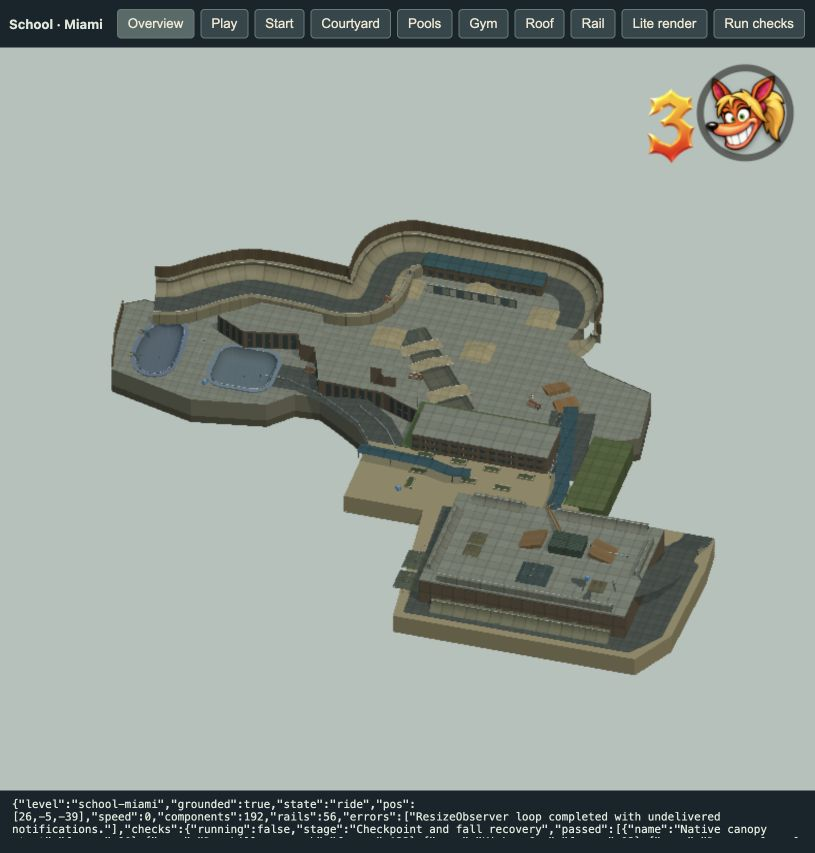
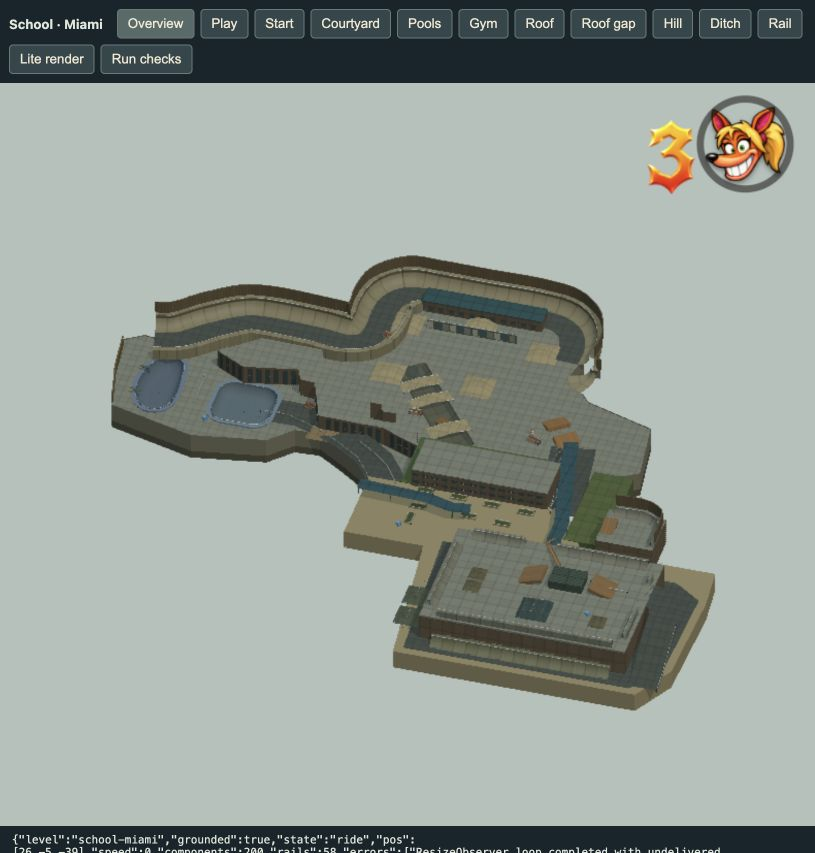
Restore School roof and footbridge transfers
Add the separate bonus roof, west-descent wedge and ditch launch. Correct the service-hill direction and east coping entry. Verify native jumps at two speeds, the braked roof turn, continuous campus circuit, and lite/full rendering. Keep all work local and preserve unrelated runtime edits.

Changed region(s): [[0.1227, 0.2438, 0.8896, 0.8535], [0.0, 0.0, 1.0, 0.2438], [0.0, 0.9144, 1.0, 1.0]]

diff --git a/src/levels/school-miami.ts b/src/levels/school-miami.ts
@@ -159,6 +159,13 @@ for (const [p,sign] of [[ditch.a,1],[ditch.b,-1]] as const) {
   const tx=(ditch.b[0]-ditch.a[0])/dl*sign,tz=(ditch.b[2]-ditch.a[2])/dl*sign;
   ribbon('Ditch end roll-out',Array.from({length:17},(_,i)=>[p[0]+tx*i/16*4,lowerY-ditch.depth*smooth(i/16),p[2]+tz*i/16*4] as Point),ditch.half*2,asphalt,4);
 }
+// The long space between the second and third bridges contains the
+// original launch wedge: approach along the bed and ollie over bridge 3.
+export const SCHOOL_DITCH_KICKER={p:pointAt(ditch.a,ditch.b,.64),run:4.2,rise:1.2,direction:[(ditch.b[0]-ditch.a[0])/dl,0,(ditch.b[2]-ditch.a[2])/dl] as Point};
+{
+  const k=SCHOOL_DITCH_KICKER,h=k.direction;
+  add({t:'ramp',nm:'Over a Footbridge · ditch launch wedge',p:[k.p[0],lowerY-ditch.depth,k.p[2]],len:k.run,rise:k.rise,w:2.8,yaw:Math.atan2(-h[0],-h[2])*180/Math.PI,tex:'wood',color:'#a28e6b',edgeGrinding:false,grp:4});
+}
 
 const yardOutline=mapped([[28,107],[53,100],[84,109],[163,83],[186,84],[269,108],[300,90],[320,46],[342,32],[485,57],[516,77],[513,110],[496,132],[512,164],[536,176],[575,195],[558,252],[502,266],[473,256],[447,278],[302,281],[273,263],[246,235],[225,216],[199,213],[168,227],[89,224],[9,189],[16,143]],lowerY);
 floor('Lower campus · cut-out pool and ditch foundation',yardOutline,lowerY,concrete,1,[kidneyHole,squareHole,ditchHole]).depthBias=2;
@@ -185,6 +192,11 @@ const westDescent=SCHOOL_WEST_DESCENT;
 ribbon('West descent · long planter road',westDescent,9,asphalt,2);
 rail('Long Ass Rail · outside planter lip',westDescent.map(p=>[p[0]-3.9,p[1]+.45,p[2]+1.2]),2,'#bead8c');
 rail('Hall Pass · inside planter transfer',[[1,.5,-6],[-3,.5,-12],[-8,-.3,-17],[-13,-2,-22]],2);
+export const SCHOOL_WEST_WEDGE={p:schoolMapPoint(233,214,-3.85),width:5.6,depth:1.1,rise:1.15,bank:2.1};
+{
+  const k=SCHOOL_WEST_WEDGE;
+  hip('Funbox to Rail · west-descent wedge',k.p[0],lowerY,k.p[2],k.width,k.depth,k.rise,k.bank,7,'#ad977a');
+}
 // Upper grass terraces stop short of the bank and the landing lanes.
 polygonBlock('Admin lawn',[[2,-25],[34,-25],[37,-7],[2,-7]],.15,-5,'#65835b',2);
 slab('East approach lawn',51,-10,10,27,.12,-5,'#6c8459',2);
@@ -249,10 +261,10 @@ quarter('Mini Gap · playground inner quarter',[miniAfter,...longPipe.slice(10)]
 const parkReturn=[[493,133],[494,146],[505,154]].map(([u,v])=>schoolMapPoint(u,v,lowerY));
 quarter('Park Gap return quarter',parkReturn,3,6,{w:3.1,deck:1.1,curve:'spline',color:'#b7af95'});
 // Physical fences are outside the transition decks, not in the riding line.
-function fenceAlong(points:Point[], offset:number, grp:number) {
+function fenceAlong(points:Point[], offset:number, grp:number, elevation=3) {
   const outside=points.map((p,i):Point=>{
     const a=points[Math.max(0,i-1)],b=points[Math.min(points.length-1,i+1)],l=Math.hypot(b[0]-a[0],b[2]-a[2])||1;
-    return[p[0]+(b[2]-a[2])/l*offset,p[1]+3,p[2]-(b[0]-a[0])/l*offset];
+    return[p[0]+(b[2]-a[2])/l*offset,p[1]+elevation,p[2]-(b[0]-a[0])/l*offset];
   });
   const p=outside[0];
   add({t:'wallpath',nm:'School perimeter fence',p,pts:outside.map(q=>[q[0]-p[0],q[2]-p[2],0,q[1]-p[1]]),w:.28,rise:3.2,curve:'spline',color:'#837d70',tex:'wood',containment:true,collisionHeight:6,grp});
@@ -358,14 +370,28 @@ quarter('Gym roof west quarter',[[26,roofY,45],[26,roofY,21]],1.8,9,{color:'#969
 quarter('Gym roof north left quarter',[[27,roofY,18],[40,roofY,18]],1.8,9,{color:'#969d96',deck:.7});
 quarter('Gym roof north right quarter',[[48,roofY,18],[71,roofY,18]],1.8,9,{color:'#969d96',deck:.7});
 quarter('Gym roof south quarter',[[71,roofY,46],[27,roofY,46]],1.8,9,{color:'#969d96',deck:.7});
-quarter('Gym roof east quarter',[[71,roofY,20],[71,roofY,34]],1.8,9,{color:'#969d96',deck:.7});
-// The right-hand service hill returns from ground to roof with eased ends.
-// Its broad turn accepts full-speed diagonal steering after controller
-// normalization (keyboard forward + left is 0.71, not a full 1.0 turn).
+quarter('Gym roof east upper quarter',[[71,roofY,20],[71,roofY,23]],1.8,9,{color:'#969d96',deck:.7});
+quarter('Gym roof east lower quarter',[[71,roofY,34],[71,roofY,45]],1.8,9,{color:'#969d96',deck:.7});
+// A distinct small roof sits across the north coping, east of the long
+// awning. Its south edge is open for Roof 2 Roof; the other two sides have
+// transitions and a fence. It is not a continuation of the access hill.
+export const SCHOOL_BONUS_ROOF={minX:55.8,maxX:70.25,minZ:-2.5,maxZ:9.9,y:roofY};
+{
+  const b=SCHOOL_BONUS_ROOF;
+  slab('Roof 2 Roof · separate bonus roof',(b.minX+b.maxX)/2,(b.minZ+b.maxZ)/2,b.maxX-b.minX,b.maxZ-b.minZ,b.y,0,brick,9);
+  floor('Bonus roof skating surface',[[b.minX,b.minZ],[b.maxX,b.minZ],[b.maxX,b.maxZ],[b.minX,b.maxZ]],b.y+.015,concrete,9,[],false);
+  const rim:Point[]=[[57.6,b.y,.2],[65.4,b.y,.2],[67.5,b.y,1.5],[67.8,b.y,4],[67.8,b.y,9.2]];
+  quarter('Bonus roof · north and east quarter',rim,1.8,9,{curve:'spline',color:'#969d96',deck:.65});
+  fenceAlong(rim,2.7,9,1.8);
+  add({t:'ramp',nm:'Bonus roof · small return wedge',p:[57.7,b.y,4.5],len:4.8,rise:1.4,w:3.4,yaw:0,tex:'wood',color:'#ad9579',edgeGrinding:false,grp:9});
+}
+// The east service hill climbs from the rear alley toward the front of the
+// gym. Its top turns left through the opening in the roof's east coping,
+// lining up the air-conditioner kicker. Brake for the turn as in free skate.
 export const SCHOOL_ROOF_ACCESS:Point[]=[];
-for(let i=0;i<=40;i++){const t=i/40;SCHOOL_ROOF_ACCESS.push([81,7*smooth(t),mix(6,22,t)]);}
-for(let i=1;i<=32;i++){const a=i/32*Math.PI/2;SCHOOL_ROOF_ACCESS.push([61+20*Math.cos(a),7,22+20*Math.sin(a)]);}
-SCHOOL_ROOF_ACCESS.push([58,7,42]);
+for(let i=0;i<=40;i++){const t=i/40;SCHOOL_ROOF_ACCESS.push([80,7*smooth(t),mix(53,34,t)]);}
+for(let i=1;i<=32;i++){const a=i/32*Math.PI/2;SCHOOL_ROOF_ACCESS.push([72+8*Math.cos(a),7,34-8*Math.sin(a)]);}
+SCHOOL_ROOF_ACCESS.push([68,7,26]);
 ribbon('Gym service hill · ground-to-roof return',SCHOOL_ROOF_ACCESS,7.6,asphalt,9);
 rail('Service hill outside rail',SCHOOL_ROOF_ACCESS.slice(0,40).filter((_,i)=>i%4===0).map(p=>[p[0]+3.65,p[1]+.5,p[2]]),9);
 slab('Gym roof air conditioner',54,27.5,8.5,6.2,9.1,roofY,'#566f68',9);

diff --git a/tools/school-browser-checks.ts b/tools/school-browser-checks.ts
@@ -1,4 +1,4 @@
-import {SCHOOL_KICKER,SCHOOL_POOLS,SCHOOL_ROOF_ACCESS,SCHOOL_MAIN_RAIL,SCHOOL_CHECKPOINTS,SCHOOL_LONG_HALFPIPE,SCHOOL_ROOF_PLANK} from '../src/levels/school-miami';
+import {SCHOOL_KICKER,SCHOOL_POOLS,SCHOOL_ROOF_ACCESS,SCHOOL_MAIN_RAIL,SCHOOL_CHECKPOINTS,SCHOOL_LONG_HALFPIPE,SCHOOL_ROOF_PLANK,SCHOOL_BONUS_ROOF,SCHOOL_DITCH_KICKER,SCHOOL_BRIDGES} from '../src/levels/school-miami';
 import {createSchoolCircuit} from './school-circuit';
 type Point=[number,number,number];
 type Trial={name:string;init:()=>void;input:(n:number)=>any;done:(n:number)=>boolean;limit?:number;allowDeath?:boolean};
@@ -18,18 +18,21 @@ export function runSchoolBrowserChecks(g:any){
   };
   const steer=(q:Point)=>{const a=Math.atan2(q[0]-p.pos.x,-(q[2]-p.pos.z)),b=Math.atan2(p.axisF.x,-p.axisF.z),d=Math.atan2(Math.sin(a-b),Math.cos(a-b));return Math.max(-1,Math.min(1,d*3));};
   const near=(q:Point,d=2.2)=>Math.hypot(q[0]-p.pos.x,q[2]-p.pos.z)<d;
-  const pathTrial=(name:string,pts:Point[],charge=false,fullTurn=false):Trial=>({name,init:()=>{waypoint=1;place([pts[0][0],pts[0][1]+.1,pts[0][2]],[pts[1][0]-pts[0][0],0,pts[1][2]-pts[0][2]],charge?18:12);},
-    input:()=>{while(waypoint<pts.length-1&&near(pts[waypoint],3))waypoint++;const turn=steer(pts[waypoint]);return {moveX:turn,moveY:fullTurn?Math.sqrt(1-turn*turn):1,jumpHeld:charge};},done:()=>waypoint===pts.length-1&&near(pts.at(-1)!)});
+  const pathTrial=(name:string,pts:Point[],charge=false,fullTurn=false,hillBrake=false):Trial=>({name,init:()=>{waypoint=1;place([pts[0][0],pts[0][1]+.1,pts[0][2]],[pts[1][0]-pts[0][0],0,pts[1][2]-pts[0][2]],charge?18:12);},
+    input:()=>{while(waypoint<pts.length-1&&near(pts[waypoint],hillBrake?2:3))waypoint++;const turn=steer(pts[waypoint]);return {moveX:turn,moveY:fullTurn?Math.sqrt(1-turn*turn):1,jumpHeld:charge,grabHeld:hillBrake&&p.pos.z<39&&p.speed>12};},done:()=>waypoint===pts.length-1&&near(pts.at(-1)!)});
   const k=SCHOOL_KICKER,h=k.direction,run=k.gap/2+k.run+7;
+  const dk=SCHOOL_DITCH_KICKER,dh=dk.direction,db=SCHOOL_BRIDGES[2];let overBridge=false;
   const trials:Trial[]=[
     {name:'Native canopy start',init:()=>{p.respawn(l,true);if(p.axisF.x<.99)throw Error('Native spawn faces off canopy');},input:()=>({moveY:1}),done:n=>{if(n<90)return false;if(p.pos.x<9||Math.abs(p.pos.z)>.1||Math.abs(p.pos.y-3.4)>.06)throw Error('Native start left canopy');return true;}},
     pathTrial('Downhill approach',[[44,0,-4],[43,0,-8],[41,-2,-22],[39,-5,-36],[37,-5,-39]]),
     {name:'Kicker Gap',init:()=>{air=false;popped=false;place([k.x-h[0]*run,-4.9,k.z-h[2]*run],h,18);},input:()=>{if(!popped&&(k.x-p.pos.x)*h[0]+(k.z-p.pos.z)*h[2]<k.gap/2+.9)popped=true;return {jumpHeld:!popped};},done:()=>{air||=p.state==='air';return air&&p.grounded&&(p.pos.x-k.x)*h[0]+(p.pos.z-k.z)*h[2]>k.gap/2;}},
     ...SCHOOL_POOLS.map((pool):Trial=>({name:`${pool.name} vert return`,init:()=>{air=false;place([pool.centre[0],pool.bottom+.1,pool.centre[2]],[1,0,0],16);},input:()=>({jumpHeld:true}),done:()=>{air||=p.vertAir;return air&&p.grounded;}})),
-    pathTrial('Roof service hill',SCHOOL_ROOF_ACCESS.filter((_,i,a)=>i%7===0||i===a.length-1),true),
+    pathTrial('Roof service hill',SCHOOL_ROOF_ACCESS.filter((_,i,a)=>i%7===0||i===a.length-1),true,true,true),
     pathTrial('Winding halfpipe',SCHOOL_LONG_HALFPIPE,false,true),
     pathTrial('Gym doorway',[[31,0,9],[31,0,19],[38,0,25],[48.5,0,32],[48.5,0,42]]),
     {name:'Air-conditioner roof gap',init:()=>{air=false;popped=false;place([70,7.1,27.5],[-1,0,0],18);},input:()=>{if(p.pos.x<61)popped=true;return{jumpHeld:!popped};},done:()=>{air||=p.state==='air';return air&&p.grounded&&p.pos.x<49.7;}},
+    {name:'Roof 2 Roof',init:()=>{air=false;place([63,7.1,23],[0,0,-1],18);},input:()=>({moveY:1,jumpHeld:true}),done:()=>{air||=p.state==='air';if(!air||!p.grounded||p.pos.z>=SCHOOL_BONUS_ROOF.maxZ)return false;if(p.pos.z<1||Math.abs(p.pos.y-7)>.06)throw Error('Missed bonus roof');return true;}},
+    {name:'Over a Footbridge',init:()=>{air=false;popped=false;overBridge=false;place([dk.p[0]-dh[0]*3.8,-6.4,dk.p[2]-dh[2]*3.8],dh,18);if(Math.abs(p.pos.y+6.5)>.06)throw Error('Ditch start missed bed');},input:()=>{if((dk.p[0]-p.pos.x)*dh[0]+(dk.p[2]-p.pos.z)*dh[2]< -dk.run/2+.6)popped=true;return {jumpHeld:!popped};},done:()=>{air||=p.state==='air';const past=(p.pos.x-db.p[0])*dh[0]+(p.pos.z-db.p[2])*dh[2];if(Math.abs(past)<.5&&p.state==='air'&&p.pos.y>-4.58)overBridge=true;if(!air||!p.grounded||past<=db.width/2)return false;if(!overBridge)throw Error('Ditch jump missed bridge');return true;}},
     {name:'Roof-to-awning plank',init:()=>{air=false;const r=l.rails.find((r:any)=>r.points[0].distanceTo(p.pos.clone().set(...SCHOOL_ROOF_PLANK[0]).add(p.pos.clone().set(0,.06,0)))<.1),q=r.pointAt(.4).add(p.pos.clone().set(0,.3,0)),h=r.tangentAt(.4).setY(0).normalize();place(q.toArray(),h.toArray(),14);p.pos.copy(q);p.prevPos.copy(q);p.state='air';p.grounded=false;p.vVel=0;p.airFromSkate=true;p.airGrav='board';p.balanceBoostT=10;},input:()=>({grindHeld:true}),done:()=>{air||=p.state==='grind';return air&&p.state==='ride'&&p.grounded&&Math.abs(p.pos.y-3.4)<.08;}},
     {name:'Green downhill grind',init:()=>{const rail=l.rails.find((r:any)=>r.points[0].distanceTo(p.pos.clone().set(...SCHOOL_MAIN_RAIL[0]))<.1),t=rail.totalLength*.2,q=rail.pointAt(t).add(p.pos.clone().set(0,.3,0)),h=rail.tangentAt(t).setY(0).normalize();place(q.toArray(),h.toArray(),14);p.pos.copy(q);p.prevPos.copy(q);p.state='air';p.grounded=false;p.vVel=0;p.airFromSkate=true;p.airGrav='board';p.balanceBoostT=10;},input:()=>({grindHeld:true}),done:n=>{if(n>2&&p.state!=='grind')throw Error('Rail catch interrupted');return n>=45;}},
     {name:'Continuous campus circuit',limit:2400,init:()=>{p.respawn(l,true);circuit=createSchoolCircuit(p);report.circuit=circuit.report;},input:()=>circuit.sample(),done:()=>circuit.observe()},

diff --git a/tools/school-review.html b/tools/school-review.html
@@ -1,6 +1,6 @@
 <!doctype html>
 <html lang="en"><meta charset="utf-8"><meta name="viewport" content="width=device-width,initial-scale=1"><title>School Miami · Local review</title>
 <style>*{box-sizing:border-box}body{margin:0;background:#16252b;color:#e0e7db;font:13px system-ui}header{display:flex;gap:6px;align-items:center;flex-wrap:wrap;padding:9px}button,a{background:#31474c;color:#f0e8d1;border:1px solid #667b78;border-radius:4px;padding:6px 10px;text-decoration:none;cursor:pointer}button:hover{background:#546b68}strong{margin-right:8px}iframe{width:100%;height:calc(100vh - 110px);border:0}#status{padding:5px 12px;white-space:pre-wrap;font:11px monospace;height:45px;overflow:auto}</style>
-<header><strong>School · Miami</strong><button id="overview">Overview</button><button id="play">Play</button><button id="start">Start</button><button id="yard">Courtyard</button><button id="pools">Pools</button><button id="gym">Gym</button><button id="roof">Roof</button><button id="rail">Rail</button><button id="full">Full render</button><button id="checks">Run checks</button></header>
+<header><strong>School · Miami</strong><button id="overview">Overview</button><button id="play">Play</button><button id="start">Start</button><button id="yard">Courtyard</button><button id="pools">Pools</button><button id="gym">Gym</button><button id="roof">Roof</button><button id="bonus">Roof gap</button><button id="hill">Hill</button><button id="ditch">Ditch</button><button id="rail">Rail</button><button id="full">Full render</button><button id="checks">Run checks</button></header>
 <iframe id="game" src="/?playtest&level=school-miami&lite"></iframe><div id="status">Loading local source…</div>
 <script type="module" src="/tools/school-review.ts"></script></html>

diff --git a/tools/school-review.ts b/tools/school-review.ts
@@ -1,4 +1,4 @@
-import { SCHOOL_MIAMI_LEVEL, SCHOOL_POOLS } from '../src/levels/school-miami';
+import { SCHOOL_MIAMI_LEVEL, SCHOOL_POOLS, SCHOOL_DITCH_KICKER } from '../src/levels/school-miami';
 import { OrthographicCamera } from 'three';
 import { runSchoolBrowserChecks } from './school-browser-checks';
 const frame=document.querySelector<HTMLIFrameElement>('#game')!,status=document.querySelector<HTMLDivElement>('#status')!;
@@ -30,6 +30,9 @@ document.querySelector('#yard')!.addEventListener('click',()=>place([25,-4.9,-46
 document.querySelector('#pools')!.addEventListener('click',()=>{const p=SCHOOL_POOLS[0];place([p.centre[0],p.bottom+.1,p.centre[2]],[1,0,0]);});
 document.querySelector('#gym')!.addEventListener('click',()=>place([48.5,.1,23],[0,0,1]));
 document.querySelector('#roof')!.addEventListener('click',()=>place([63,7.1,38],[-1,0,-.3]));
+document.querySelector('#bonus')!.addEventListener('click',()=>place([63,7.1,23],[0,0,-1]));
+document.querySelector('#hill')!.addEventListener('click',()=>place([80,.1,53],[0,0,-1]));
+document.querySelector('#ditch')!.addEventListener('click',()=>{const k=SCHOOL_DITCH_KICKER,h=k.direction;place([k.p[0]-h[0]*3.8,-6.4,k.p[2]-h[2]*3.8],h);});
 document.querySelector('#rail')!.addEventListener('click',()=>place([44,.1,-5],[-.15,0,-1]));
 document.querySelector('#full')!.addEventListener('click',()=>{full=!full;game=null;checks=null;errors.length=0;frame.src='/?playtest&level=school-miami'+(full?'':'&lite');document.querySelector('#full')!.textContent=full?'Lite render':'Full render';});
 document.querySelector('#checks')!.addEventListener('click',()=>{if(!game||checks?.running)return;overview=false;checks=runSchoolBrowserChecks(game);});

diff --git a/docs/SCHOOL_MIAMI.md b/docs/SCHOOL_MIAMI.md
@@ -8,6 +8,7 @@ The supplied reference is VGCartography's oblique map of the original **Tony Haw
 
 - [VGCartography: School map](https://www.deviantart.com/vgcartography/art/Tony-Hawk-s-Pro-Skater-School-Map-947728299).
 - [Planet Tony Hawk: original School guide](https://planettonyhawk.gamespy.com/View6a21.html?id=3&view=thps_faqs_guides.Detail), used to verify the starting canopy, stair/green-rail route, pools, and hill → gym roof → air conditioner → plank → long awning route.
+- [HGW 2017: original PS1 School all-gaps footage](https://www.youtube.com/watch?v=UC1iKl9Va8g), used for the separate roof landing and original obstacle relationships.
 - [Tom Hayes: original THPS walkthrough](https://www.supercheats.com/playstation/walkthroughs/tonyhawksproskater-walkthrough01.txt), used to cross-check the named gap/rail relationships.
 
 `schoolMapPoint()` reverses the map's oblique projection, including elevation displacement. World units remain metres. The scale anchors are a 28 × 15 m basketball court, 0.76 m picnic-table tops, 3.2 m deep-pool transitions, and the existing skater. The upper court is Y=0, lower campus Y=−5, gym roof Y=7, and starting canopy Y=3.4.
@@ -17,13 +18,14 @@ The supplied reference is VGCartography's oblique map of the original **Tony Haw
 ## Playable features
 
 - Starting blue canopy, eight traced planters and five picnic-table locations. Four planters sit between the canopy and classroom; four sit beneath/in front of it. The native canopy drop connects to the forward planter's coping for Gimme Gap.
-- Main classroom block, winding classroom wings, west planter descent and Long Ass Rail / Hall Pass lines.
+- Main classroom block, winding classroom wings, west planter descent, its low transfer wedge, and Long Ass Rail / Hall Pass lines.
 - Smooth downhill stair/handicap corridor, separate descending green handrail, long blue canopy and facing Kicker Gap ramps.
 - Two excavated swimming pools with continuous curved transitions, flush rims, diving boards and Swim Team transfer rail. The foundation has real holes, so no invisible floor spans a basin.
 - Winding opposing halfpipe walls, continuous outer perimeter quarter, Huge Rail corridor, rear playground, funboxes, mural rail and Park Gap return. The inner quarter has the small Mini Gap near the playground bend; a continuous flat lane joins its independently swept sections.
-- Open drainage ditch with banked sides, low bed, end roll-outs and three arched footbridges. Crossing a bridge and skating beneath it use different real surfaces.
+- Open drainage ditch with banked sides, low bed, end roll-outs and three arched footbridges. Crossing a bridge and skating beneath it use different real surfaces. A narrow wedge in the bed launches over the third footbridge and lands back on the yard.
 - Accessible gym interior with a full-scale court and two long opposing quarterpipes. Roof deck, perimeter quarters, air conditioner and facing kickers, skylight, vent hips, dumpster rail gap and rear service quarter.
-- Eased service-hill climb and broad roof-entry bend. The plank clears the north roof edge before descending onto the long awning.
+- Separate fenced bonus roof across a real 4.5 m roof-edge gap, with its north/east quarter and small wedge. A charged forward vert exit from the gym coping reaches it.
+- The service hill climbs from the rear alley toward the front of the gym, then turns left through a split in the east coping toward the air-conditioner kicker. Brake to cruising speed for that turn. The plank clears the north roof edge before descending onto the long awning.
 - Five native checkpoint crates and out-of-bounds recovery. As a native free skate level, it has no finish gate that would terminate a line.
 
 The work adds level data and local review tools. It does not modify `src/tuning.ts`, the movement controller, or the shared component builders. Explicit grind paths cover real lips/rails; incidental platform edges are opted out. Cosmetic treads, windows, court paint and tile skins do not add collision obstacles.
@@ -32,19 +34,21 @@ The work adds level data and local review tools. It does not modify `src/tuning.
 
 Run `node tools/test-school-miami.mjs`, `npm run check:levels`, and `npm run build`. Do not substitute `check:all` for the focused workflow.
 
-The School regression test builds the real level and player, validates editor JSON, raycasts supports/clearances, drives thirteen route cases, clears eight jump/vert cases, and tests three grind cases. It uses the same unit-clamped, two-decimal input axes as the game. It checks both directions across all three bridges, both Kicker Gap directions, both pool-air directions, the charged roof climb, the air-conditioner gap, Mini Gap coping transfer and rollout, plank-to-awning landing, and both downhill-rail directions. Accepted cases have zero bails and finite positions. Tuning must remain unchanged.
+The School regression test builds the real level and player, validates editor JSON, raycasts supports/clearances, drives thirteen route cases, clears twelve jump/vert cases, and tests three grind cases. It uses the same unit-clamped, two-decimal input axes as the game. It checks both directions across all three bridges, both Kicker Gap directions, both pool-air directions, the charged roof climb and braked top turn, the air-conditioner gap, Roof 2 Roof at two speeds, Over a Footbridge at two speeds, Mini Gap coping transfer and rollout, plank-to-awning landing, and both downhill-rail directions. Accepted cases have zero bails and finite positions. Tuning must remain unchanged.
 
-Both lite and full rendering pass all thirteen live cases (3,348 fixed steps each), including the banked checkpoint return. The review recorded one browser `ResizeObserver loop completed with undelivered notifications` layout notification during each sequence; this is retained in the evidence rather than suppressed. No skating check failed.
+Both lite and full rendering pass all fifteen live cases (3,505 fixed steps each), including the banked checkpoint return. The review recorded one browser `ResizeObserver loop completed with undelivered notifications` layout notification during each sequence; this is retained in the evidence rather than suppressed. No skating check failed.
 
 The browser review runs ordinary virtual-controller input through the real frame loop. A placement isolates each feature; the rider's trajectory is never corrected during a route. The one intentional exception is the fall probe after banking a checkpoint, which places the rider outside the campus and observes the native death/respawn cycle. The live sequence begins at the native spawn without a placement override, then covers the downhill, Kicker Gap, both pools, roof hill, winding halfpipe, gym entrance, roof gap, plank, rail and checkpoint recovery.
 
-`tools/school-circuit.ts` adds a complete native-spawn circuit shared by the headless and live browser tests. It follows the canopy → Gimme Gap planter grind → downhill → Kicker Gap → rear perimeter → winding corridor → pool deck → west uphill → upper court. All 44 waypoints complete in 1,747 live fixed steps (29.1 simulated seconds), travelling 375.3 m with 21 frames on the intended planter rail. There are no intermediate placements, velocity changes, or resets. The controller brakes to cruising speed before the narrow bends, using the ordinary grab/brake button.
+`tools/school-circuit.ts` adds a complete native-spawn circuit shared by the headless and live browser tests. It follows the canopy → Gimme Gap planter grind → downhill → Kicker Gap → rear perimeter → winding corridor → pool deck → west uphill → upper court. All 44 waypoints complete in 1,747 live fixed steps (29.1 simulated seconds), travelling 375.2 m with 21 frames on the intended planter rail. There are no intermediate placements, velocity changes, or resets. The controller brakes to cruising speed before the narrow bends, using the ordinary grab/brake button.
+
+Validation ran against the shared working tree, which contains unrelated runtime edits outside the School commits. `docs/performance/school-miami-runtime.json` fingerprints the tested movement/input/level files; repeat the checks after integrating the local commits with the intended runtime.
 
 Evidence lives in `docs/performance/school-miami-physics.json`, `docs/performance/school-miami-browser-lite.json`, `docs/performance/school-miami-browser-full.json`, and `docs/art-reviews/school-miami/`.
 
 ## Remaining reference work
 
-The second comparison found missing or insufficiently verified details that still need a geometry pass: the separate roof-to-roof bonus area, the smaller west-descent transfer ramp, the ditch ramps used to jump over a footbridge, and the remaining named rail/air transfers. These are part of the active recreation goal; the passing circuit does not establish that all source features are present.
+The third comparison adds the separate bonus roof, west-descent wedge and ditch launch ramp, and corrects the service hill direction. The remaining audit covers the named rail/air transfers: Hall Pass and rail-to-rail planter relationships, both Funbox transfers, the roof Mini Gap, Park Gap, Swim Team, Ditch Slap and the garbage/dumpster lines. Existing geometry for a name is not yet proof that its complete source transfer works. These remain part of the active recreation goal.
 
 No original School `.psx`/`.trg` files or extracted mesh were found in this workspace. To remove dimensional uncertainty, the original School geometry or an extracted mesh would allow an independent comparison. [Neversoft Multitool](https://github.com/slfx77/neversoft-multitool) documents PSX geometry-to-glTF and TRG rail/spawn extraction. The [THPS native port](https://github.com/LANCommander/TonyWasAProSkater) likewise requires the user's own original game data and does not supply it. The older noclip viewer listed a THUGPro School port, but that renderer was removed and its historical public data URL is unavailable; it was not used as dimensional evidence.
 

diff --git a/docs/LEVEL_ITERATIONS.md b/docs/LEVEL_ITERATIONS.md
@@ -622,3 +622,13 @@
 - Validation: focused School test passes 13 routes, eight air/vert cases, three standalone grinds and the full circuit. `check:levels` and `build` pass. Lite/full browser passes each complete 13 cases / 3,348 steps, with checkpoint/fall recovery and unchanged tuning. One existing ResizeObserver layout notification appears in each automated browser sequence and is retained in the evidence.
 - Elapsed prompt-to-playable: approximately 96 minutes cumulative from the original goal; approximately 23 minutes for this additional reference/connection pass. The first playable reconstruction was approximately 17 minutes into the original brief.
 - Keep local. The goal remains active: the separate roof-to-roof area, smaller west-descent and ditch transfer ramps, remaining named transfers, and independent original-dimension verification are still pending. The old noclip School renderer/data lead is unavailable; it supplied no dimensional evidence.
+
+### 2026-10-23 — School Miami: roof and ditch transfers
+
+- Continued the active image recreation goal; local delivery only. Original PS1 all-gaps footage supplements the supplied overhead map and existing guides.
+- Added the separate fenced bonus roof, its small wedge and curved north/east quarter; the gym-to-bonus transfer crosses an actual open roof-edge gap. Added the west-descent wedge and the ditch-bed launch for Over a Footbridge.
+- Corrected the east service hill to climb from the rear alley toward the front of the gym and turn left through split east coping toward the air-conditioner kicker. Its top turn uses ordinary grab/brake input to reach cruising speed; movement tuning and the controller are unchanged.
+- Physics validation: 200 components, 58 rails, 20 support/clearance probes, 13 route cases, 12 air cases, 3 grind cases, and the 44-waypoint continuous circuit. Roof 2 Roof and Over a Footbridge pass at two approach speeds with zero bails. The 375.2 m circuit still completes in 1,747 fixed steps without intermediate placement or velocity correction.
+- Lite and full browser rendering each pass all 15 cases / 3,505 fixed steps, including checkpoint recovery. Each sequence retains one ResizeObserver layout notification; no skating case fails. New full-render overview, roof and ditch captures are saved locally.
+- `check:levels` and `build` pass; build reports the existing large-chunk warning. Validation completed at 2026-10-22 12:51 UTC, 119.3 minutes from the original prompt across the successive refinement passes.
+- Goal remains active: audit the remaining named transfers (Hall Pass, rail-to-rail, Funbox, roof Mini Gap, Park Gap, Swim Team, Ditch Slap, garbage/dumpsters) and remaining reference differences. Source collision dimensions are still inferred.
